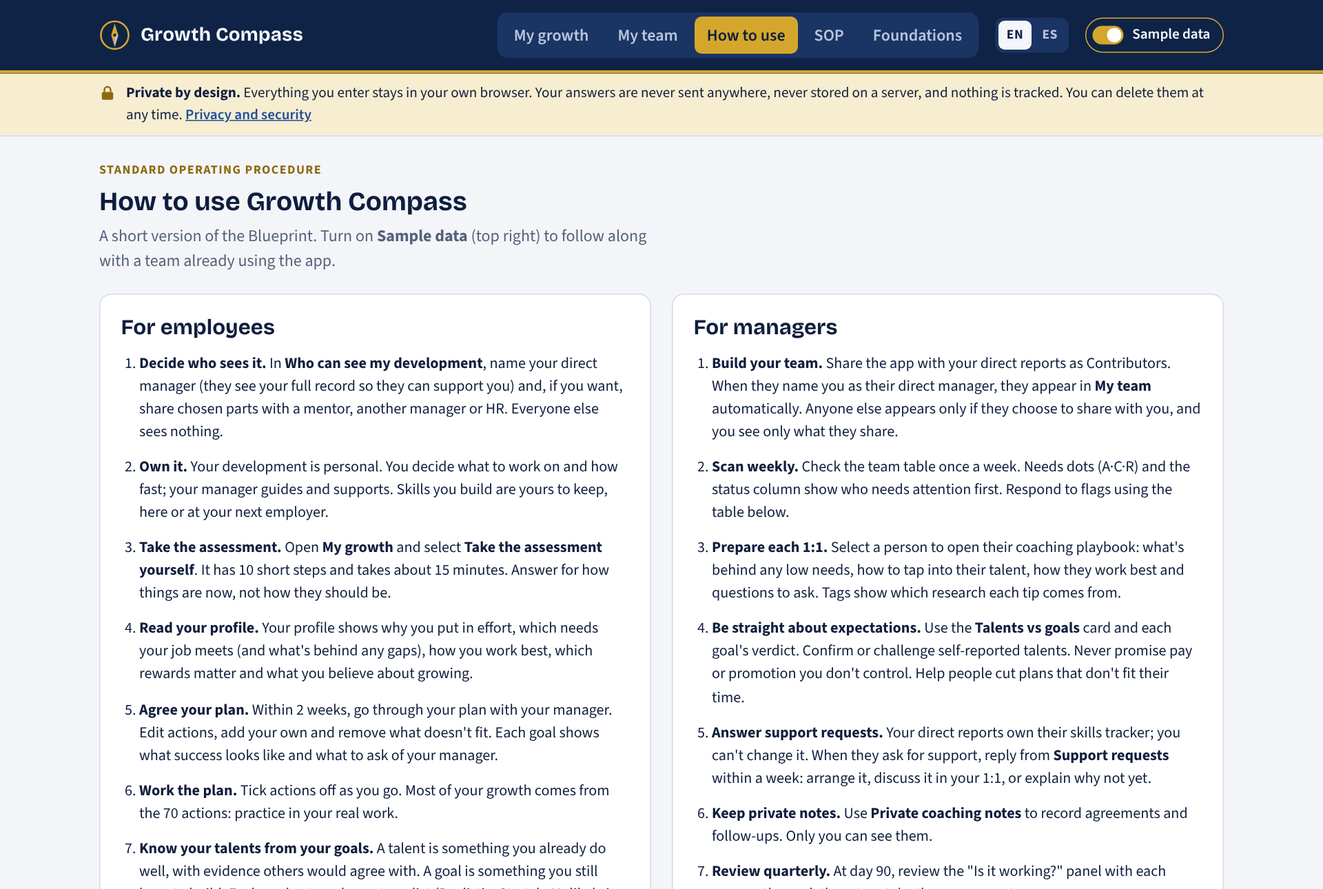
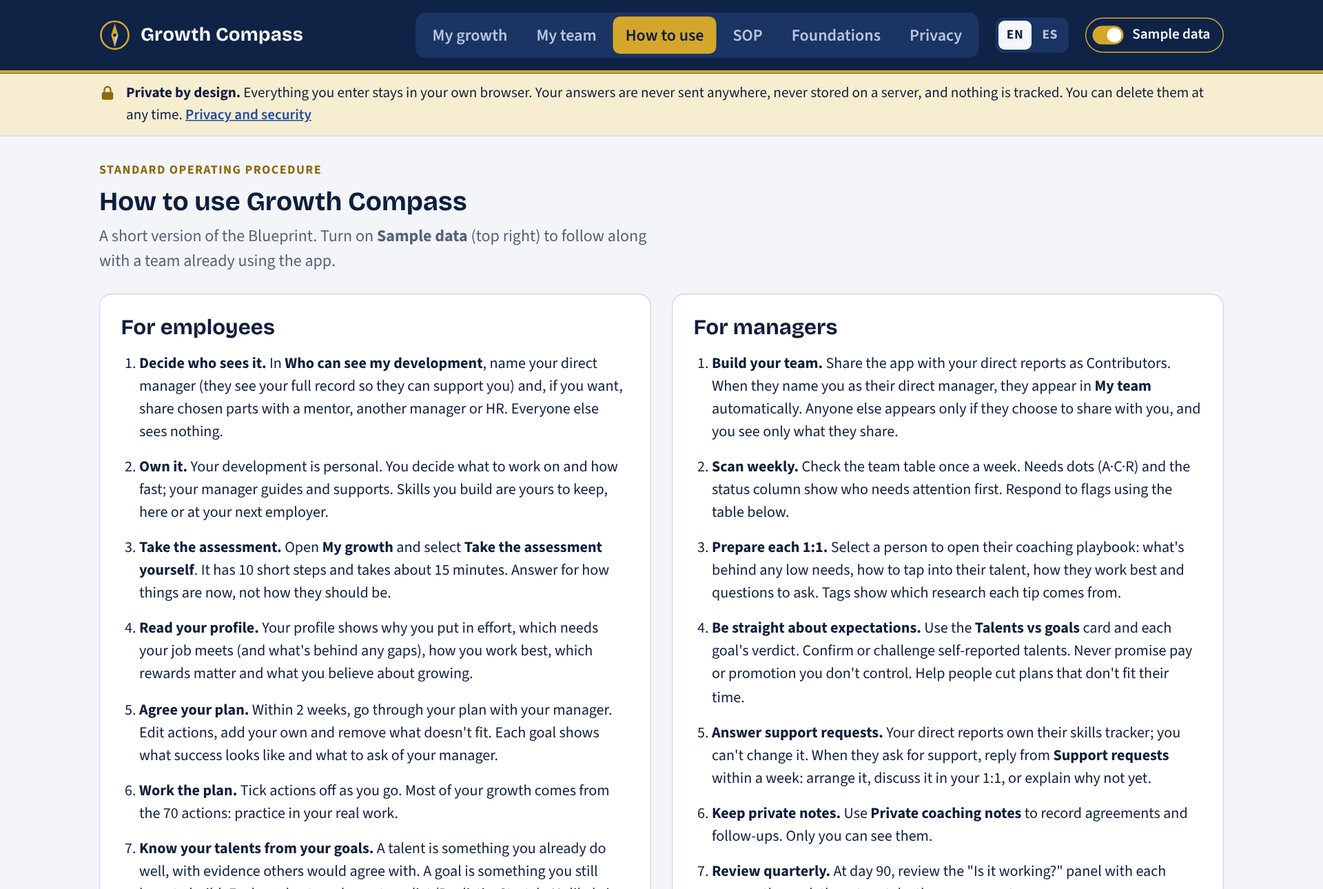
Add a Privacy tab with a clear, Growth Compass-specific privacy page
New "Privacy" tab in the menu. The page opens with the privacy promise
and a "Right now" line showing where this person's answers are being
saved, then covers where answers are saved, who can see them, no AI or
tracking, Copy my passport, sharing the link, deleting your data and
good practice. English and Spanish.

Claude-Session: https://claude.ai/code/session_01Uujaq66ZKBCDtqxri7RNsD

Changed region(s): [[0.3125, 0.0, 0.7188, 0.062]]

diff --git a/index.html b/index.html
@@ -18,7 +18,7 @@
   --bg:#F3F5F9; --surface:#FFFFFF; --sunk:#E7ECF4; --ink:#0F1E3D; --muted:#56627A; --line:#D3DBE8;
   --in:#1F4E9C; --in-soft:#DEE7F7; --ex:#8C6A0E; --ex-soft:#F7EDD0;
   --navy:#0F2347; --navy-2:#1A3463; --on-navy:#F4F6FB; --on-navy-muted:#B9C5DD; --gold:#D4A72C; --gold-soft:#F7EDD0;
-  --btn-bg:#0F2347; --btn-fg:#FFFFFF; --crit-soft:#FBEAE8; --in-tint:#EEF3FB; --gold-tint:#FBF5E6;
+  --btn-bg:#0F2347; --btn-fg:#FFFFFF; --crit-soft:#FBEAE8; --ok-soft:#E3F2E7; --in-tint:#EEF3FB; --gold-tint:#FBF5E6;
   --ok:#1E7A3C; --warn:#A35F00; --crit:#B3261E; --focus:#2B59C3;
   --f-display:"Bricolage Grotesque", "Segoe UI", system-ui, sans-serif;
   --f-body:"Source Sans 3", "Segoe UI", system-ui, sans-serif;
@@ -28,13 +28,13 @@
   --bg:#0A1328; --surface:#111D36; --sunk:#182743; --ink:#E9EEF8; --muted:#9DABC4; --line:#26385C;
   --in:#86AAEB; --in-soft:#1B2E55; --ex:#E6BE52; --ex-soft:#3A2F12;
   --navy:#081127; --navy-2:#13234A; --on-navy:#F4F6FB; --on-navy-muted:#A8B6D2; --gold:#E6BE52; --gold-soft:#3A2F12;
-  --btn-bg:#E6BE52; --btn-fg:#0A1328; --crit-soft:#3A1C1A; --in-tint:#14244A; --gold-tint:#2A2414;
+  --btn-bg:#E6BE52; --btn-fg:#0A1328; --crit-soft:#3A1C1A; --ok-soft:#173222; --in-tint:#14244A; --gold-tint:#2A2414;
   --ok:#5BC77E; --warn:#F0A845; --crit:#F2827A; --focus:#9DB8FF; color-scheme:dark}}
 :root[data-theme="dark"]{
   --bg:#0A1328; --surface:#111D36; --sunk:#182743; --ink:#E9EEF8; --muted:#9DABC4; --line:#26385C;
   --in:#86AAEB; --in-soft:#1B2E55; --ex:#E6BE52; --ex-soft:#3A2F12;
   --navy:#081127; --navy-2:#13234A; --on-navy:#F4F6FB; --on-navy-muted:#A8B6D2; --gold:#E6BE52; --gold-soft:#3A2F12;
-  --btn-bg:#E6BE52; --btn-fg:#0A1328; --crit-soft:#3A1C1A; --in-tint:#14244A; --gold-tint:#2A2414;
+  --btn-bg:#E6BE52; --btn-fg:#0A1328; --crit-soft:#3A1C1A; --ok-soft:#173222; --in-tint:#14244A; --gold-tint:#2A2414;
   --ok:#5BC77E; --warn:#F0A845; --crit:#F2827A; --focus:#9DB8FF; color-scheme:dark}
 *{box-sizing:border-box}
 body{background:var(--bg);color:var(--ink);font:16px/1.5 var(--f-body)}
@@ -327,6 +327,12 @@ h1,h2{color:var(--ink)}
 .bp th{background:var(--navy);color:var(--on-navy);border-bottom:0} .bp th:first-child{border-top-left-radius:8px} .bp th:last-child{border-top-right-radius:8px}
 .bp tbody tr:nth-child(even) td{background:var(--sunk)}
 .bp h2{display:flex;align-items:center;gap:10px} .bp h2::before{content:"";width:6px;height:1.1em;border-radius:3px;background:var(--gold);flex:none}
+.priv h1{font-size:clamp(1.8rem,4vw,2.4rem)}
+.pv-promise{display:flex;gap:10px;align-items:flex-start;background:var(--ok-soft);border:1px solid var(--ok);border-radius:10px;padding:14px 16px;font-size:1.05rem;max-width:80ch}
+.pv-promise .lock{flex:none;color:var(--ok);margin-top:4px}
+.pv-now{background:var(--in-soft);border-radius:10px;padding:12px 16px;max-width:80ch}
+.psec p{max-width:72ch} .psec ol{margin:0;padding-left:1.3em;display:grid;gap:8px} .psec ol li::marker{color:var(--ex);font-weight:700}
+.psec p.callout{background:var(--surface);border:1px solid var(--gold);border-left:5px solid var(--gold);border-radius:8px;padding:10px 12px}
 .toast{position:fixed;left:50%;transform:translateX(-50%);bottom:calc(20px + env(safe-area-inset-bottom,0px));background:var(--navy);color:var(--on-navy);border:1px solid var(--gold);padding:8px 16px;border-radius:8px;font-weight:600;z-index:20}
 </style>
 </head>
@@ -343,6 +349,7 @@ h1,h2{color:var(--ink)}
       <button class="tab" role="tab" id="tab-guide" data-action="view" data-v="guide">How to use</button>
       <button class="tab" role="tab" id="tab-blueprint" data-action="view" data-v="blueprint">SOP</button>
       <button class="tab" role="tab" id="tab-science" data-action="view" data-v="science">Foundations</button>
+      <button class="tab" role="tab" id="tab-privacy" data-action="view" data-v="privacy">Privacy</button>
     </nav>
     <div class="lang" role="group" aria-label="Language"><button data-action="lang" data-l="en" lang="en">EN</button><button data-action="lang" data-l="es" lang="es">ES</button></div>
     <button class="demo-tog" id="demo-tog" data-action="demo" aria-pressed="false"><span class="sw" aria-hidden="true"></span>Sample data</button>
@@ -694,7 +701,7 @@ const ES = {
   "Covered two extra shifts":"Cubrí dos turnos extra","Feeling a bit stuck":"Me siento un poco estancada","Passed the first cloud practitioner exam":"Aprobé el primer examen de Cloud Practitioner","Rebuilt the backup job using what I learned":"Rehice la tarea de respaldo con lo que aprendí","Infrastructure-as-code basics":"Fundamentos de infraestructura como código","Budget for the next exam":"Presupuesto para el siguiente examen","Finished modules # to #":"Terminé los módulos # a #","Fewer interruptions on Thursday afternoons":"Menos interrupciones los jueves por la tarde",
   "Documented the panel B rewiring":"Documenté el recableado del tablero B","Used the new labelling standard":"Usé el nuevo estándar de etiquetado","Cover so I can attend the PLC course":"Que me cubran para asistir al curso de PLC",
   "“Last spring's line rebuild: clear goal, the right parts on hand, and a partner to bounce ideas off.”":"“La reconstrucción de la línea la primavera pasada: meta clara, las piezas correctas a mano y un compañero para intercambiar ideas.”","“Busy Saturday with the whole team on the floor and a clear plan for the day.”":"“Un sábado con mucho trabajo, todo el equipo en el piso y un plan claro para el día.”","“When I was trusted to redesign the break rota and the team ran smoother for it.”":"“Cuando confiaron en mí para rediseñar los turnos de descanso y el equipo funcionó mejor.”","“A quiet afternoon with no tickets coming in, rebuilding the backup job end to end.”":"“Una tarde tranquila sin tickets entrando, rehaciendo la tarea de respaldo de principio a fin.”","“The week we installed the new compressor: my own job list, the right tools, no meetings.”":"“La semana que instalamos el compresor nuevo: mi propia lista de tareas, las herramientas correctas, sin reuniones.”",
-  "Couldn't save. Check your connection and try again.":"No se pudo guardar. Revisa tu conexión e inténtalo de nuevo.","Live updates stopped. Reload the page to reconnect.":"Se detuvieron las actualizaciones en vivo. Recarga la página para reconectar.","Pick up to 4.":"Elige hasta 4.","SKILLS AND CERTIFICATIONS":"HABILIDADES Y CERTIFICACIONES","Blueprint":"Plan maestro","SOP":"Procedimiento","A short version of the Blueprint. Turn on":"Una versión breve del Plan maestro. Activa",
+  "Couldn't save. Check your connection and try again.":"No se pudo guardar. Revisa tu conexión e inténtalo de nuevo.","Live updates stopped. Reload the page to reconnect.":"Se detuvieron las actualizaciones en vivo. Recarga la página para reconectar.","Pick up to 4.":"Elige hasta 4.","SKILLS AND CERTIFICATIONS":"HABILIDADES Y CERTIFICACIONES","Blueprint":"Plan maestro","SOP":"Procedimiento","Privacy":"Privacidad","A short version of the Blueprint. Turn on":"Una versión breve del Plan maestro. Activa",
   "You decide":"Tú decides","Who can see my development":"Quién puede ver mi desarrollo","Your full record is private to you. Only the people below can see it, and only the parts you choose.":"Tu registro completo es privado. Solo las personas de abajo pueden verlo, y solo las partes que elijas.",
   "My direct manager":"Mi líder directo","Not set":"Sin definir","Sees your full development record (profile, plan, skills passport and check-ins), so they can support you.":"Ve tu registro de desarrollo completo (perfil, plan, pasaporte de habilidades y seguimientos) para poder apoyarte.","Remove":"Quitar",
   "Also shared with":"También compartido con","No one else. You can share with a mentor, another manager or HR.":"Nadie más. Puedes compartir con un mentor, otro líder o RR. HH.","Stop sharing":"Dejar de compartir","Everyone else sees nothing. You can change this at any time.":"Nadie más ve nada. Puedes cambiarlo cuando quieras.","How your information is stored":"Cómo se guarda tu información","Your answers stay in your own browser. They are never sent anywhere or tracked.":"Tus respuestas se quedan en tu propio navegador. Nunca se envían a ningún lado ni se rastrean.","Your answers are saved privately to your own account. Only you, and the people you choose, can see them.":"Tus respuestas se guardan de forma privada en tu propia cuenta. Solo tú, y las personas que elijas, pueden verlas.",
@@ -2089,64 +2096,36 @@ function renderMoves(p){
 
 // ---------- Privacy and security (written for both languages; not passed through the translator) ----------
 const PRIVACY = {
-  en: {eyebrow:"Your data", title:"Privacy and security", lead:"Your development is personal, so Growth Compass keeps it private by default. Here is exactly where your information goes.",
+  en: {title:"Privacy and security",
+    promise:"Your development record is private to you. Other people who use this app can't see what you enter, and neither can the app's owner, unless you choose to share it.",
+    now:{demo:"you're viewing sample data. It's made up, and nothing you change is saved.", local:"your answers are saving only in this web browser, on this device. Nothing is sent anywhere.", live:"your answers are saving to your private space in your claude.ai account.", ro:"you have view-only access, so nothing you enter is saved."},
     sections:[
-      ["What you type is saved automatically", [
-        "<b>In the team app on claude.ai</b> (signed in): everything you enter saves about a second after each change, to your own private section of the app's database. It's tied to your claude.ai account, so you get it back on any device.",
-        "<b>Your private section is private.</b> No one else can open it: not your manager, not other employees, not the app's owner, and not Claude when it works for the owner.",
-        "<b>In the public demo, or if you're signed out:</b> your answers are saved only in this web browser, on this device. Nothing is sent anywhere. Clearing your browser data deletes them, and they don't move to other devices.",
-        "<b>Sample data</b> is made up and never saved. Anything you change in it disappears when you reload."]],
-      ["You decide who sees it", [
-        "If you name your direct manager, they see your full record so they can support you. Anyone else sees only the sections you tick. Everyone else sees nothing. You can change or stop sharing at any time in <b>Who can see my development</b>.",
-        "Anything you haven't shared stays in your private section.",
-        "<b>An honest limit:</b> the parts you share are copied to a shared record that the app shows only to the people you chose. That record is protected by the app, not locked person by person in the database, so someone with access to the team app and technical skills could read it outside the app. Share only what you're comfortable with. For company-wide use, back the app with your HR system's access controls."]],
-      ["What your manager keeps", [
-        "Private coaching notes and ticked development moves are saved in the manager's own private section. Only that manager can see them.",
-        "Replies to your support requests are visible to you, and are kept with your manager's shared record."]],
-      ["No AI processing, no tracking", [
-        "Growth Compass does not send your answers to Claude or any other AI service. Your plan, goal verdicts and coaching tips are produced by fixed rules inside the app, on your device.",
-        "There are no ads, analytics or tracking. The only outside service the page loads is Google Fonts, for the typefaces.",
-        "Your language choice (EN / ES) is remembered in your browser."]],
-      ["Exports", [
-        "<b>Copy my passport</b> copies your skills and certifications as text to your clipboard. It isn't stored anywhere else."]],
-      ["Sharing the link", [
-        "Sharing the link gives people the app, not your data. Each person starts with the sample team and their own private record."]],
-      ["How your answers may be used", [
-        "Only for development conversations. Never for hiring, pay, ratings, promotion or discipline decisions.",
-        "If you have any concern, talk to the person who runs the programme (usually HR). You can also delete your data below at any time."]]],
-    shortDemo:["<b>Your answers stay on your device.</b> In this demo, everything you enter is saved only in your own web browser.","<b>Nothing is sent anywhere.</b> No server stores your answers, and they are never sent to Claude or any other AI service.","<b>No tracking.</b> No ads, no analytics, no profiling.","<b>No account needed,</b> and nobody else, including the app's creator, can see what you enter.","<b>You stay in control.</b> Delete your data at any time with <b>Delete my data</b> below, or by clearing your browser data."],
-    shortTeam:["<b>Your record is private.</b> It's saved to your own private section, tied to your claude.ai account.","<b>Only you, and the people you choose, can see it.</b> Not other employees, and not the app's owner.","<b>Never sent to AI and never tracked.</b> No ads, no analytics.","<b>Used only for your development,</b> never for pay, hiring, ratings or discipline.","<b>You stay in control.</b> Change who sees it, or delete everything, at any time."],
-    delTitle:"Delete my data", delLead:"Removes your assessment, plan, skills passport, check-ins, sharing settings and any private notes you wrote. This can't be undone.",
+      ["save","Where your answers are saved",["Everything you enter (your assessment, plan, skills passport and check-ins) saves automatically, about a second after each change."],
+        ["<b>In the team app on claude.ai:</b> to your private space in the app's database. It's tied to your claude.ai account, so you get your record back on any device. It's private even from the person who made the app.","<b>In the public demo, or if you're signed out:</b> only in this web browser, on this computer. Nothing is sent anywhere, and clearing your browser data deletes it."]],
+      ["share","Who can see it",["You decide. If you name your direct manager, they see your full record so they can support you. Anyone else sees only the sections you choose to share with them. Everyone else sees nothing. You can change or stop sharing at any time in <b>Who can see my development</b>."],
+        [],"<b>Good to know:</b> the parts you share are copied to a shared record that the app shows only to the people you chose. Share only what you're comfortable with."],
+      ["shield","No AI, no tracking",["Your answers are never sent to Claude or any other AI service. Your plan, goal verdicts and coaching tips are produced by fixed rules inside the app. There are no ads, analytics or tracking."],[]],
+      ["export","Copy my passport",["Copies your skills and certifications to your clipboard as text, for a CV or profile. It isn't stored anywhere else."],[]],
+      ["link","Sharing the link",["Sharing the link gives people the app, not your record. Each person starts with the sample team and their own private record."],[]],
+      ["control","Deleting your data",["<b>Delete my data</b> below removes your assessment, plan, skills passport, check-ins, sharing settings and any private notes you wrote, from your account and from this browser."],[]],
+      ["check","Good practice",["Describe colleagues and customers by role, not by name, and leave out health, financial or other sensitive personal details. Your plan works just as well without them. Your answers are for development only, never for pay, hiring, ratings or discipline."],[]]],
+    delTitle:"Delete my data", delLead:"Permanently removes everything you entered. This can't be undone.",
     delBtn:"Delete my data", delSure:"Are you sure? Everything you entered will be permanently deleted.", delYes:"Yes, delete everything", delNo:"Cancel",
     delDemo:"You're viewing sample data, which is never saved, so there is nothing of yours to delete.", delDone:"Your data was deleted.", delFail:"Couldn't delete everything. Check your connection and try again."},
-  es: {eyebrow:"Tus datos", title:"Privacidad y seguridad", lead:"Tu desarrollo es personal, por eso Growth Compass lo mantiene privado por defecto. Aquí ves exactamente adónde va tu información.",
+  es: {title:"Privacidad y seguridad",
+    promise:"Tu registro de desarrollo es privado. Otras personas que usan esta app no pueden ver lo que ingresas, y tampoco la persona dueña de la app, a menos que tú decidas compartirlo.",
+    now:{demo:"estás viendo datos de ejemplo. Son ficticios y nada de lo que cambies se guarda.", local:"tus respuestas se están guardando solo en este navegador, en este dispositivo. No se envía nada a ningún lado.", live:"tus respuestas se están guardando en tu espacio privado de tu cuenta de claude.ai.", ro:"tienes acceso de solo lectura, así que nada de lo que ingreses se guarda."},
     sections:[
-      ["Lo que escribes se guarda automáticamente", [
-        "<b>En la app del equipo en claude.ai</b> (con sesión iniciada): todo lo que ingresas se guarda alrededor de un segundo después de cada cambio, en tu propia sección privada de la base de datos de la app. Está vinculada a tu cuenta de claude.ai, así que la recuperas en cualquier dispositivo.",
-        "<b>Tu sección privada es privada.</b> Nadie más puede abrirla: ni tu líder, ni otros colaboradores, ni la persona dueña de la app, ni Claude cuando trabaja para esa persona.",
-        "<b>En la demo pública, o si no iniciaste sesión:</b> tus respuestas se guardan solo en este navegador, en este dispositivo. No se envía nada a ningún lado. Si borras los datos del navegador, se eliminan, y no pasan a otros dispositivos.",
-        "<b>Los datos de ejemplo</b> son ficticios y nunca se guardan. Lo que cambies en ellos desaparece al recargar."]],
-      ["Tú decides quién lo ve", [
-        "Si nombras a tu líder directo, ve tu registro completo para poder apoyarte. Cualquier otra persona ve solo las secciones que marques. Nadie más ve nada. Puedes cambiar o dejar de compartir cuando quieras en <b>Quién puede ver mi desarrollo</b>.",
-        "Lo que no compartas se queda en tu sección privada.",
-        "<b>Un límite, con honestidad:</b> las partes que compartes se copian a un registro compartido que la app muestra solo a las personas que elegiste. Ese registro está protegido por la app, no bloqueado persona por persona en la base de datos, así que alguien con acceso a la app del equipo y conocimientos técnicos podría leerlo fuera de la app. Comparte solo lo que te haga sentir cómodo. Para usarla en toda la empresa, respáldala con los controles de acceso de tu sistema de RR. HH."]],
-      ["Lo que guarda tu líder", [
-        "Las notas privadas de acompañamiento y las acciones de desarrollo marcadas se guardan en la sección privada del líder. Solo ese líder puede verlas.",
-        "Las respuestas a tus solicitudes de apoyo las ves tú, y se guardan con el registro compartido de tu líder."]],
-      ["Sin procesamiento de IA, sin rastreo", [
-        "Growth Compass no envía tus respuestas a Claude ni a ningún otro servicio de IA. Tu plan, los veredictos de tus metas y los consejos de acompañamiento se generan con reglas fijas dentro de la app, en tu dispositivo.",
-        "No hay anuncios, analítica ni rastreo. El único servicio externo que carga la página es Google Fonts, para las tipografías.",
-        "Tu elección de idioma (EN / ES) se recuerda en tu navegador."]],
-      ["Exportar", [
-        "<b>Copiar mi pasaporte</b> copia tus habilidades y certificaciones como texto a tu portapapeles. No se guarda en ningún otro lugar."]],
-      ["Compartir el enlace", [
-        "Compartir el enlace da acceso a la app, no a tus datos. Cada persona empieza con el equipo de ejemplo y su propio registro privado."]],
-      ["Cómo pueden usarse tus respuestas", [
-        "Solo para conversaciones de desarrollo. Nunca para decisiones de contratación, salario, calificaciones, ascensos ni medidas disciplinarias.",
-        "Si tienes cualquier inquietud, habla con quien dirige el programa (normalmente RR. HH.). También puedes borrar tus datos aquí abajo cuando quieras."]]],
-    shortDemo:["<b>Tus respuestas se quedan en tu dispositivo.</b> En esta demo, todo lo que ingresas se guarda solo en tu propio navegador.","<b>No se envía nada a ningún lado.</b> Ningún servidor guarda tus respuestas, y nunca se envían a Claude ni a ningún otro servicio de IA.","<b>Sin rastreo.</b> Sin anuncios, sin analítica, sin perfiles.","<b>No necesitas una cuenta,</b> y nadie más, ni siquiera la persona que creó la app, puede ver lo que ingresas.","<b>Tú tienes el control.</b> Borra tus datos cuando quieras con <b>Borrar mis datos</b> aquí abajo, o borrando los datos de tu navegador."],
-    shortTeam:["<b>Tu registro es privado.</b> Se guarda en tu propia sección privada, vinculada a tu cuenta de claude.ai.","<b>Solo tú, y las personas que elijas, pueden verlo.</b> Ni otros colaboradores ni la persona dueña de la app.","<b>Nunca se envía a IA ni se rastrea.</b> Sin anuncios, sin analítica.","<b>Se usa solo para tu desarrollo,</b> nunca para salario, contratación, calificaciones ni medidas disciplinarias.","<b>Tú tienes el control.</b> Cambia quién lo ve, o bórralo todo, cuando quieras."],
-    delTitle:"Borrar mis datos", delLead:"Elimina tu evaluación, plan, pasaporte de habilidades, seguimientos, configuración de privacidad y cualquier nota privada que hayas escrito. No se puede deshacer.",
+      ["save","Dónde se guardan tus respuestas",["Todo lo que ingresas (tu evaluación, plan, pasaporte de habilidades y seguimientos) se guarda automáticamente, alrededor de un segundo después de cada cambio."],
+        ["<b>En la app del equipo en claude.ai:</b> en tu espacio privado de la base de datos de la app. Está vinculado a tu cuenta de claude.ai, así que recuperas tu registro en cualquier dispositivo. Es privado incluso para la persona que creó la app.","<b>En la demo pública, o si no iniciaste sesión:</b> solo en este navegador, en esta computadora. No se envía nada a ningún lado, y si borras los datos del navegador, se elimina."]],
+      ["share","Quién puede verlo",["Tú decides. Si nombras a tu líder directo, ve tu registro completo para poder apoyarte. Cualquier otra persona ve solo las secciones que elijas compartir con ella. Nadie más ve nada. Puedes cambiar o dejar de compartir cuando quieras en <b>Quién puede ver mi desarrollo</b>."],
+        [],"<b>Bueno saberlo:</b> las partes que compartes se copian a un registro compartido que la app muestra solo a las personas que elegiste. Comparte solo lo que te haga sentir cómodo."],
+      ["shield","Sin IA, sin rastreo",["Tus respuestas nunca se envían a Claude ni a ningún otro servicio de IA. Tu plan, los veredictos de tus metas y los consejos de acompañamiento se generan con reglas fijas dentro de la app. No hay anuncios, analítica ni rastreo."],[]],
+      ["export","Copiar mi pasaporte",["Copia tus habilidades y certificaciones como texto a tu portapapeles, para un CV o perfil. No se guarda en ningún otro lugar."],[]],
+      ["link","Compartir el enlace",["Compartir el enlace da acceso a la app, no a tu registro. Cada persona empieza con el equipo de ejemplo y su propio registro privado."],[]],
+      ["control","Borrar tus datos",["<b>Borrar mis datos</b>, aquí abajo, elimina tu evaluación, plan, pasaporte de habilidades, seguimientos, configuración de privacidad y cualquier nota privada que hayas escrito, de tu cuenta y de este navegador."],[]],
+      ["check","Buenas prácticas",["Describe a tus compañeros y clientes por su rol, no por su nombre, y deja fuera datos de salud, financieros u otros datos personales sensibles. Tu plan funciona igual de bien sin ellos. Tus respuestas son solo para tu desarrollo, nunca para salario, contratación, calificaciones ni medidas disciplinarias."],[]]],
+    delTitle:"Borrar mis datos", delLead:"Elimina de forma permanente todo lo que ingresaste. No se puede deshacer.",
     delBtn:"Borrar mis datos", delSure:"¿Seguro? Todo lo que ingresaste se eliminará de forma permanente.", delYes:"Sí, borrar todo", delNo:"Cancelar",
     delDemo:"Estás viendo datos de ejemplo, que nunca se guardan, así que no hay nada tuyo que borrar.", delDone:"Se borraron tus datos.", delFail:"No se pudo borrar todo. Revisa tu conexión e inténtalo de nuevo."}
 };
@@ -2177,17 +2156,17 @@ const ICONS = {
 };
 const icon = k => `<svg viewBox="0 0 24 24" width="22" height="22" fill="none" stroke="currentColor" stroke-width="1.8" stroke-linecap="round" stroke-linejoin="round" aria-hidden="true">${ICONS[k]}</svg>`;
 function renderPrivacy(){
-  const d = PRIVACY[LANG] || PRIVACY.en;
-  const shortIcons = ["device","nosend","noeye","person","control"], secIcons = ["save","share","case","shield","export","link","check"];
-  const tile = (x, i) => { const m = x.match(/^<b>(.*?)<\/b>\s*(.*)$/); return `<div class="ptile ${i % 2 ? "g" : "n"}"><span class="pico">${icon(shortIcons[i])}</span><div><b class="tt">${m ? m[1].replace(/[,.]$/, "") : ""}</b><p>${m ? m[2] : x}</p></div></div>`; };
+  const d = PRIVACY[LANG] || PRIVACY.en, es = LANG === "es";
+  const state = S.demo ? "demo" : !S.live ? "local" : S.readOnly ? "ro" : "live";
   const hasData = S.demo ? false : !!(S.myDoc.assessment || (S.myDoc.skills || []).length || (S.myDoc.checkins || []).length || Object.keys(S.notes).length);
-  return `<div data-notr class="stack" style="gap:20px">
-    <section class="card bp-hero"><span class="eyebrow">${d.eyebrow}</span><h1>${d.title}</h1><p>${d.lead}</p></section>
-    <section class="inshort"><h2>${LOCK} ${LANG === "es" ? "En resumen" : "In short"}</h2><div class="ptiles">${(S.live ? d.shortTeam : d.shortDemo).map(tile).join("")}</div></section>
-    <div class="psecs">${d.sections.map(([h, items], i) => `<section class="card psec ${i % 2 ? "g" : "n"}"><div class="psec-h"><span class="pico">${icon(secIcons[i])}</span><h2>${h}</h2></div>
-      <ul>${items.map(x => `<li class="${/^<b>(An honest limit|Un límite)/.test(x) ? "callout" : ""}">${x}</li>`).join("")}</ul></section>`).join("")}</div>
-    <section class="card stack pdel" style="gap:10px"><div class="psec-h"><span class="pico">${icon("control")}</span><h2>${d.delTitle}</h2></div><p class="small muted" style="max-width:68ch">${d.delLead}</p>
-      ${S.demo ? `<p class="small">${d.delDemo}</p>`
+  return `<div data-notr class="stack priv" style="gap:16px">
+    <h1>${d.title}</h1>
+    <p class="pv-promise">${LOCK}<span>${d.promise}</span></p>
+    <p class="pv-now"><b>${es ? "Ahora mismo:" : "Right now:"}</b> ${d.now[state]}</p>
+    <div class="psecs">${d.sections.map(([ic, h, paras, list, note], i) => `<section class="card psec ${i % 2 ? "g" : "n"}"><div class="psec-h"><span class="pico">${icon(ic)}</span><h2>${h}</h2></div>
+      ${paras.map(x => `<p>${x}</p>`).join("")}${list.length ? `<ol>${list.map(x => `<li>${x}</li>`).join("")}</ol>` : ""}${note ? `<p class="callout">${note}</p>` : ""}</section>`).join("")}</div>
+    <section class="card stack pdel" style="gap:10px"><div class="psec-h"><span class="pico">${icon("control")}</span><h2>${d.delTitle}</h2></div><p class="small">${d.delLead}</p>
+      ${S.demo ? `<p class="small muted">${d.delDemo}</p>`
         : S.delAsk ? `<p class="small"><b>${d.delSure}</b></p><div class="row"><button class="btn danger" data-action="del-yes">${d.delYes}</button><button class="btn ghost" data-action="del-no">${d.delNo}</button></div>`
         : `<div><button class="btn ghost" data-action="del-ask" ${hasData ? "" : "disabled"}>${d.delBtn}</button></div>`}
     </section></div>`;

diff --git a/README.md b/README.md
@@ -69,7 +69,7 @@ Available in **English and Spanish** (switch with **EN / ES** in the top bar).
 
 ## Privacy and security
 
-A **Privacy and security** page in the app (linked in every page footer) explains, in English and Spanish, exactly where information is saved, who can see it, and how to delete it. In short:
+A **Privacy** tab in the app menu (also linked in every page footer) explains, in English and Spanish, exactly where information is saved, who can see it, and how to delete it. In short:
 - Entries save automatically to each person's private section (in the team app on claude.ai), or only in their browser (public demo). No one else can open a private section, including the app owner.
 - Only the sections a person chooses to share leave their private section.
 - No AI processing and no tracking: answers are never sent to Claude or any other AI service.
